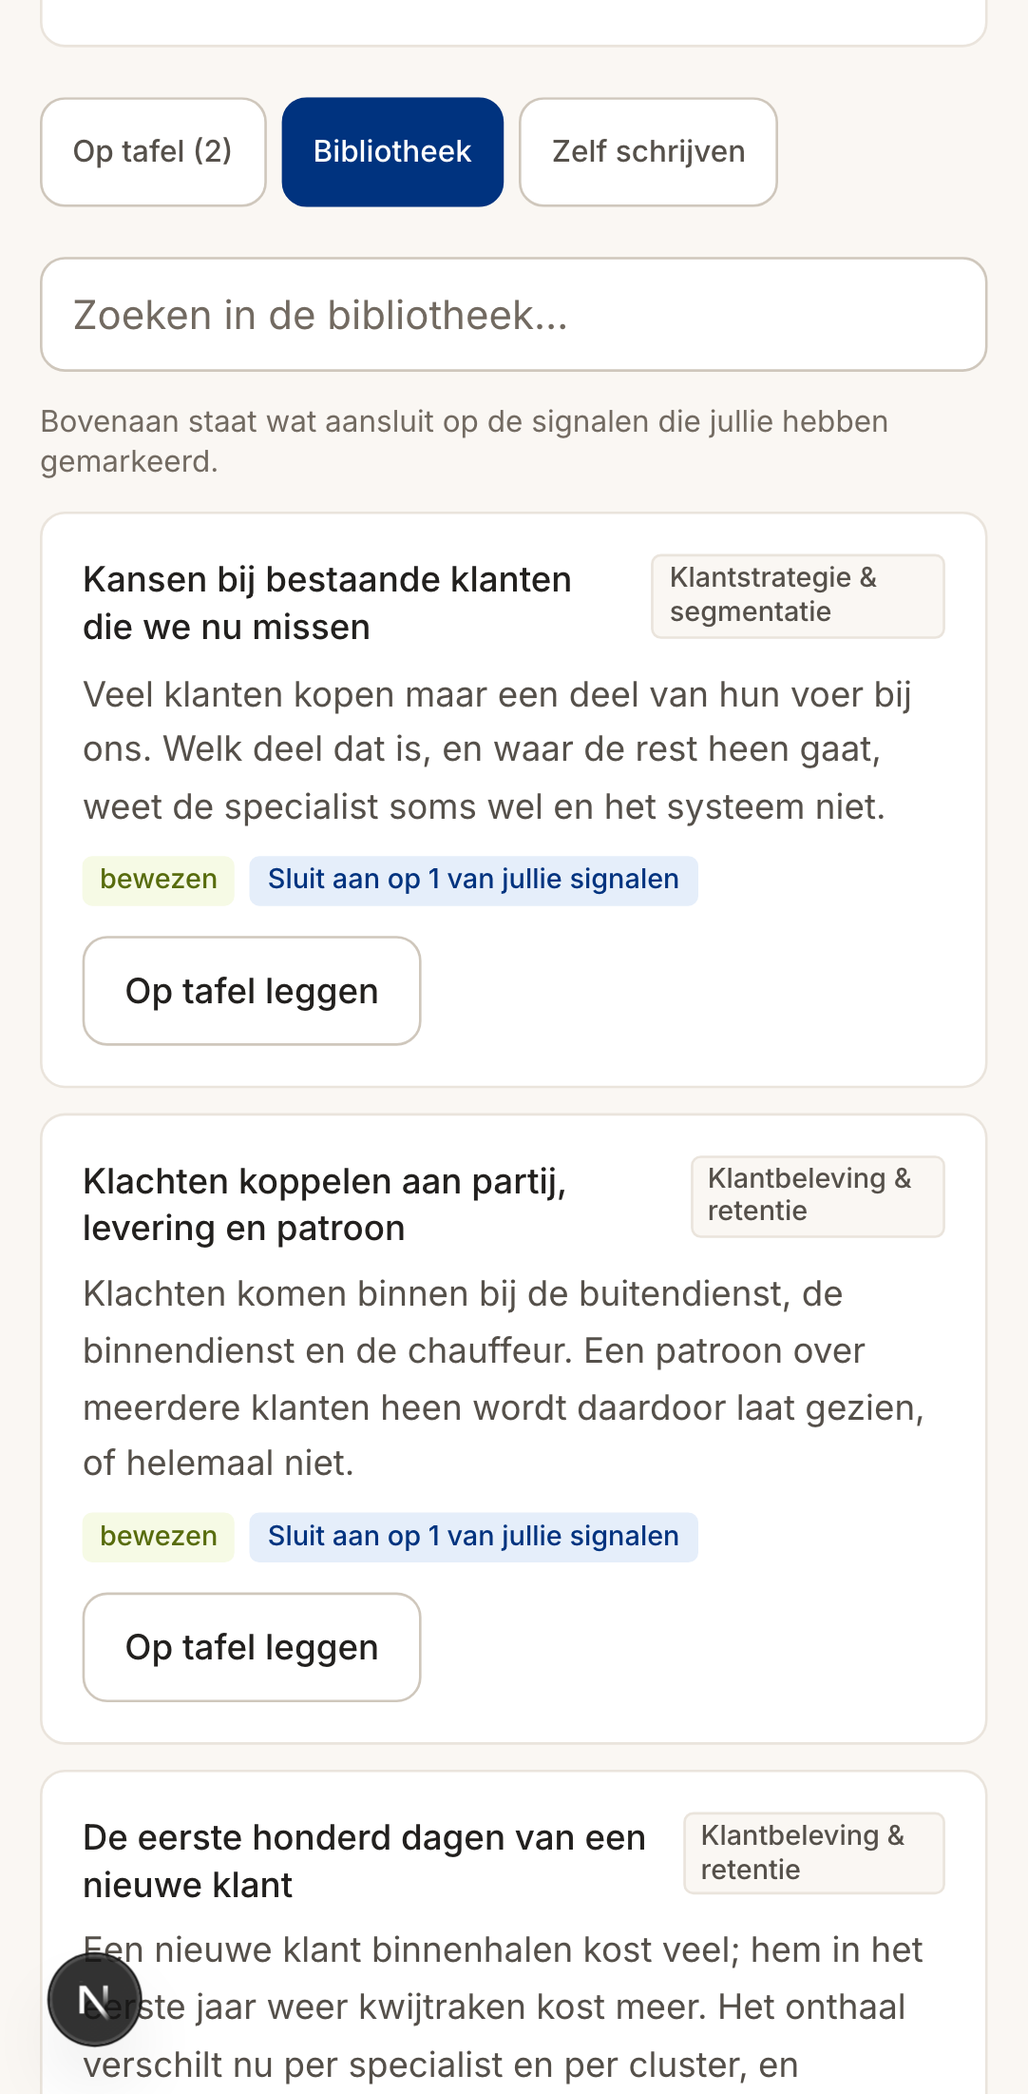
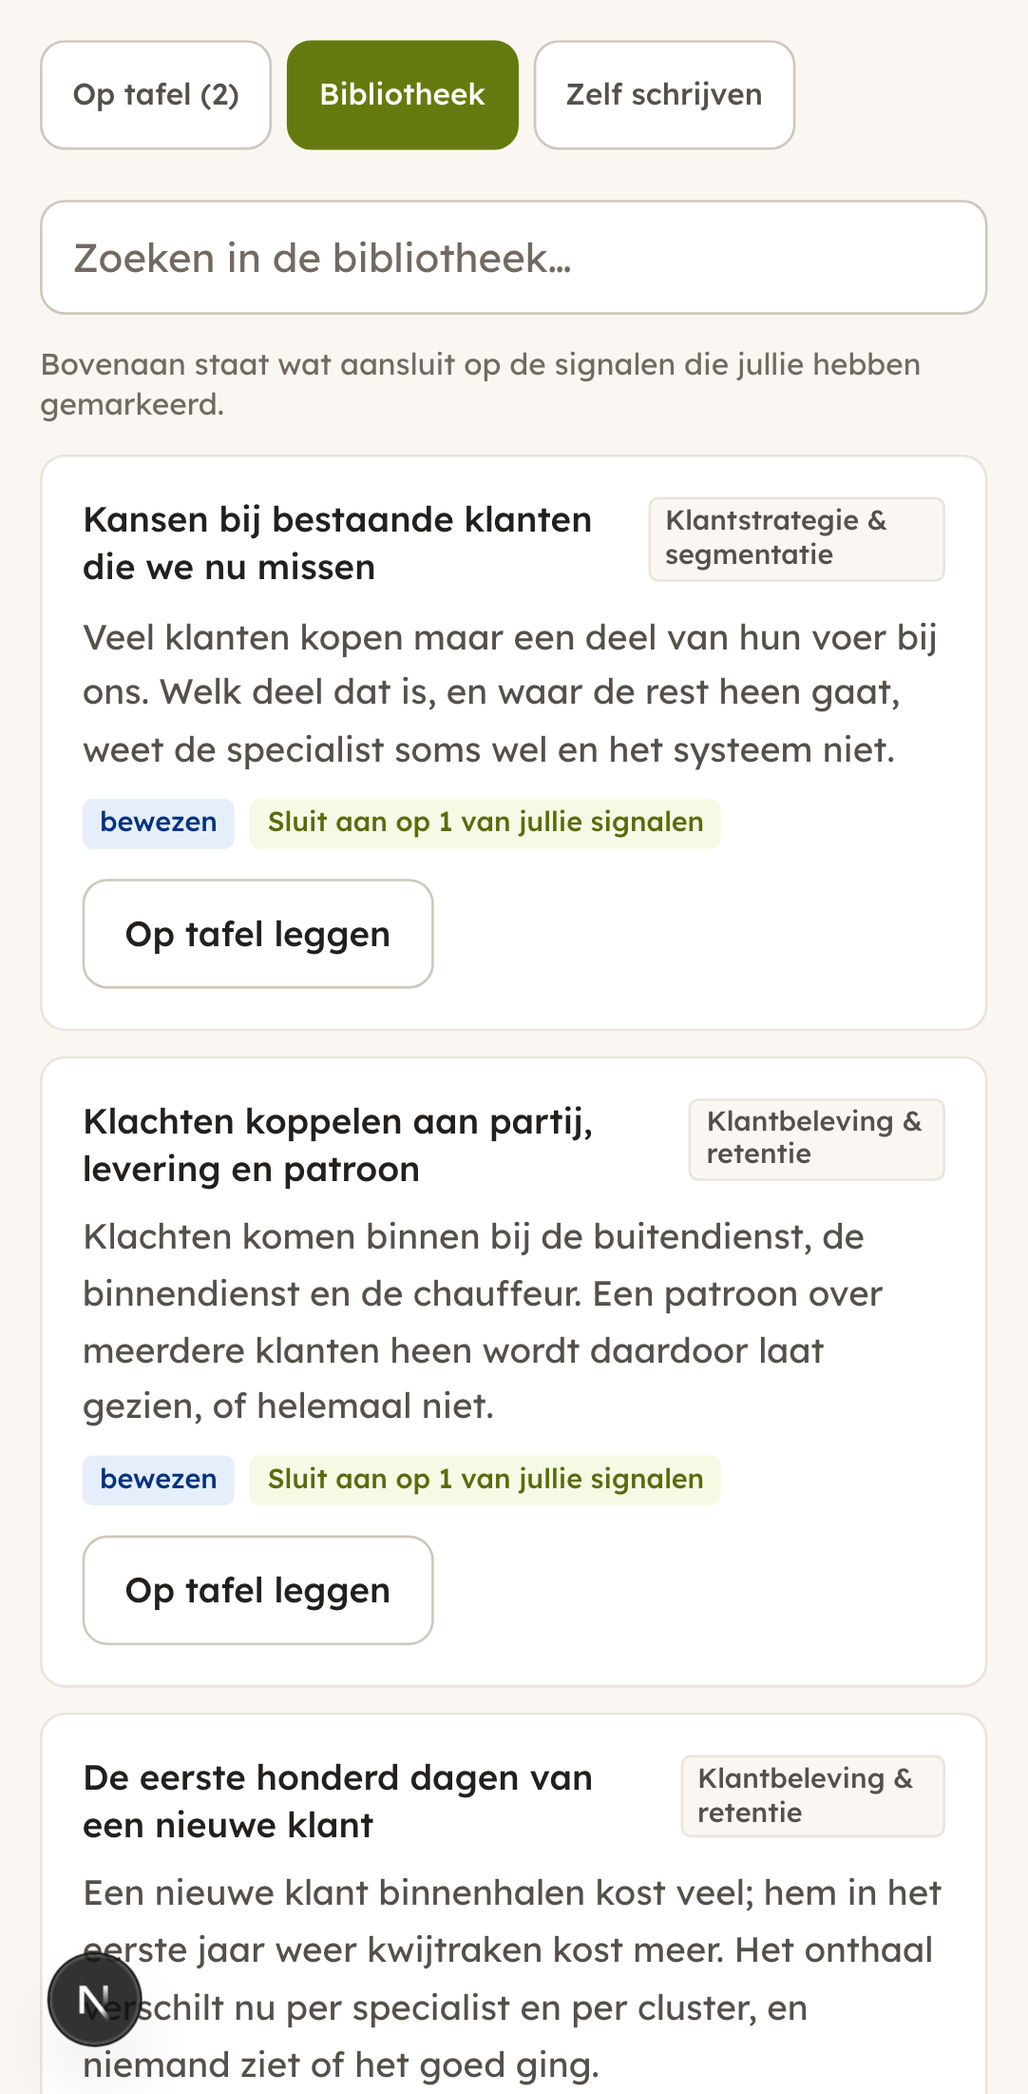
feat(huisstijl): Lexend door de hele app, en de logokleuren omgedraaid
Het lettertype en de kleuren komen nu allebei rechtstreeks van ForFarmers.

**Lexend** is wat zij zelf gebruiken, op hun site in de gewichten 300 tot 600.
Het staat op Google Fonts, dus het kan mee via next/font/google en wordt bij de
build opgehaald en vanaf het eigen domein geserveerd — geen bezoekersdata naar
Google, dezelfde afweging als eerder. Playfair Display en Inter zijn eruit: één
familie voor alles. Het onderscheid tussen kop en lopende tekst draagt nu het
gewicht (300 tegen 400) met strakkere letterafstand, wat bij een geometrische
schreefloze de rust geeft die de serif eerder bracht.

**De kleuren komen uit het officiële logo** (00-FF-Group_2024-RGB.svg), dat
precies twee kleuren bevat: `#99BA16` en `#00337F` — dezelfde twee als hun CSS.
Het groen is nu het hoofdaccent, het navy de tweede kleur.

Dat dwong twee dingen af.

Ten eerste nam de bestaande kleurtest het correct waar: `Cijfer toon="accent"`
zette het volle accent op papier, wat mocht omdat het kleinste formaat 30 px is
en daarboven de norm voor grote tekst (3,0) geldt. Bij koraal klopte dat op het
randje met 3,43; dit groen haalt 2,09 en de test viel om. Die redenering hing dus
aan één kleur. Er is nu een variant `accent-groot` die net zolang verdiept tot de
norm gehaald wordt en verder niets doet — bij een donkere huisstijl is hij gelijk
aan het accent zelf. Voor ForFarmers: `#7A9512`, contrast 3,20.

Ten tweede een semantische keuze: met groen als accent kan groen niet tegelijk
[…]

Changed region(s): [[0.0305, 0.0, 0.9455, 1.0], [0.9455, 0.1235, 0.976, 0.1544], [0.061, 0.4632, 0.0915, 0.4941]]

diff --git a/src/lib/thema/kleur.ts b/src/lib/thema/kleur.ts
@@ -26,9 +26,12 @@ export type Hsl = { h: number; s: number; l: number };
  * minimum nog steeds onprettig. Kleine tekst krijgt daarom de meeste marge.
  */
 const AA_NORMAAL = 4.5;
+/** De norm voor grote tekst (18pt en op). Grote cijfers vallen hieronder. */
+const AA_GROOT = 3.0;
 const DOEL_VULLING = 4.8;
 const DOEL_KLEINE_TEKST = 5.5;
 const DOEL_OP_DONKER = 5.0;
+const DOEL_GROTE_TEKST = 3.2;
 
 export function hexNaarRgb(hex: string): Rgb {
   const schoon = hex.trim().replace("#", "");
@@ -187,8 +190,18 @@ export type TweedePalet = {
 };
 
 export type Palet = {
-  /** De aangeleverde kleur. Alleen voor grote vormen: cijfers, cirkels, matrixpunten. */
+  /** De aangeleverde kleur. Alleen voor vlakken zonder tekst: cirkels, matrixpunten, balken. */
   accent: string;
+  /**
+   * Grote cijfers op de papieren ondergrond.
+   *
+   * Dit was eerder de rauwe accentkleur, met de redenering dat het kleinste cijferformaat 30 px is
+   * en daarboven de norm voor grote tekst (3,0) geldt. Bij koraal klopte dat op het randje (3,43);
+   * bij het limegroen van ForFarmers haalt de rauwe kleur maar 2,09 en zou het cijfer dus onder de
+   * norm zakken. Deze variant verdiept net zolang tot de norm gehaald wordt en blijft anders
+   * gelijk aan het accent zelf.
+   */
+  accentGroot: string;
   /** Vulling met witte tekst erop, bijvoorbeeld knoppen. */
   accentSterk: string;
   /** Kleine tekst in de accentkleur op de papieren ondergrond. */
@@ -210,13 +223,14 @@ export const WIT = "#FFFFFF";
  * Elke variant wordt getoetst tegen de ondergrond waarop hij daadwerkelijk komt te staan, niet
  * tegen een aanname. `kleur.test.ts` controleert dat voor elke organisatie in content/.
  */
-export { AA_NORMAAL };
+export { AA_NORMAAL, AA_GROOT };
 
 export function leidPaletAf(accent: string): Palet {
   const genormaliseerd = rgbNaarHex(hexNaarRgb(accent));
 
   return {
     accent: genormaliseerd,
+    accentGroot: zoekVariant(genormaliseerd, PAPIER, DOEL_GROTE_TEKST, "donkerder"),
     accentSterk: zoekVariant(genormaliseerd, WIT, DOEL_VULLING, "donkerder"),
     accentDiep: zoekVariant(genormaliseerd, PAPIER, DOEL_KLEINE_TEKST, "donkerder"),
     accentOpDonker: zoekVariant(genormaliseerd, HOUTSKOOL, DOEL_OP_DONKER, "lichter"),
@@ -244,6 +258,7 @@ export function leidTweedePaletAf(tweede: string): TweedePalet {
 export function paletAlsVariabelen(palet: Palet): Record<string, string> {
   return {
     "--color-accent": palet.accent,
+    "--color-accent-groot": palet.accentGroot,
     "--color-accent-sterk": palet.accentSterk,
     "--color-accent-diep": palet.accentDiep,
     "--color-accent-op-donker": palet.accentOpDonker,

diff --git a/src/lib/thema/__tests__/kleur.test.ts b/src/lib/thema/__tests__/kleur.test.ts
@@ -133,17 +133,31 @@ describe("de zachte tint draagt tekst", () => {
   );
 
   /**
-   * Eén uitzondering op die regel: het cijfer. `Cijfer toon="accent"` zet het volle accent op
-   * papier, en dat mag omdat het kleinste formaat 30 px is — daarboven geldt de norm voor grote
-   * tekst (3,0) en niet 4,5. Zakt dat formaat ooit, dan valt deze test niet om; dan moet
-   * `Cijfer` naar accent-diep. De test bewaakt dus alleen de kleurkant.
+   * Het cijfer. `Cijfer toon="accent"` zet een variant van het accent op papier, en die moet de
+   * norm voor grote tekst halen (3,0) omdat het kleinste formaat 30 px is. Zakt dat formaat ooit,
+   * dan valt deze test niet om; dan moet `Cijfer` naar accent-diep.
+   *
+   * Dit toetste eerder de rauwe accentkleur, met de redenering dat die het bij koraal net haalde
+   * (3,43). Dat hield geen stand: het limegroen van ForFarmers haalt 2,09, en toen deze test
+   * daarop omviel bleek dat het cijfer een eigen, bewaakte variant nodig had. Vandaar dat hier nu
+   * `accentGroot` staat en niet het accent zelf — de test toetst wat er werkelijk op het scherm
+   * komt.
    */
   it.each(organisaties.map((o) => [o.naam, o.thema.accent] as const))(
     "%s: het accentcijfer haalt de norm voor grote tekst op papier",
     (_naam, accent) => {
-      expect(contrast(accent, PAPIER)).toBeGreaterThanOrEqual(AA_GROOT);
+      expect(contrast(leidPaletAf(accent).accentGroot, PAPIER)).toBeGreaterThanOrEqual(AA_GROOT);
     },
   );
+
+  /**
+   * En de variant blijft zo dicht mogelijk bij de merkkleur: waar het accent de norm al haalt,
+   * verandert er niets. Anders zou een donkere huisstijl onnodig verder verdiept worden.
+   */
+  it("laat een accent dat de norm al haalt ongemoeid", () => {
+    const donker = "#00337F";
+    expect(leidPaletAf(donker).accentGroot).toBe(donker);
+  });
 
   it("het volle accent verdraagt juist géén tekst, en daarom bestaat de tint", () => {
     // Deze verwachting legt de ontwerpregel vast: geen kleine tekst op het volle koraal.

diff --git a/src/app/globals.css b/src/app/globals.css
@@ -36,6 +36,7 @@
    * de norm voor kleine tekst. Daarvoor zijn accent-diep en accent-sterk.
    */
   --color-accent: #e8524a;
+  --color-accent-groot: #d0342c;
   --color-accent-sterk: #dd261c;
   --color-accent-diep: #c32119;
   --color-accent-op-donker: #ec736d;
@@ -49,9 +50,14 @@
   --color-risico: #93332f;
   --color-risico-zacht: #fbeceb;
 
-  --font-sans: var(--font-inter), ui-sans-serif, system-ui, -apple-system, "Segoe UI", Roboto,
+  /*
+   * Eén familie: Lexend, het lettertype van ForFarmers zelf. Kop en lopende tekst verschillen in
+   * gewicht en letterafstand, niet in familie.
+   */
+  --font-sans: var(--font-lexend), ui-sans-serif, system-ui, -apple-system, "Segoe UI", Roboto,
     "Helvetica Neue", Arial, sans-serif;
-  --font-display: var(--font-playfair), Georgia, "Times New Roman", serif;
+  --font-display: var(--font-lexend), ui-sans-serif, system-ui, -apple-system, "Segoe UI", Roboto,
+    "Helvetica Neue", Arial, sans-serif;
   --font-mono: ui-monospace, "SF Mono", Menlo, Consolas, monospace;
 
   --radius-kaart: 0.625rem;
@@ -141,19 +147,22 @@ label.keuze:active {
 }
 
 /*
- * Display-tekst. Playfair heeft van zichzelf ruime letterafstand bij grote formaten; die wordt
- * hier ingehaald zodat koppen als één geheel lezen in plaats van als losse letters.
+ * Zonder een tweede familie moet het gewicht het onderscheid dragen: koppen staan lichter en
+ * strakker dan de lopende tekst, wat bij een geometrische schreefloze als Lexend de rust geeft
+ * die de display-serif eerder bracht.
  */
 .display {
   font-family: var(--font-display);
-  letter-spacing: -0.015em;
+  font-weight: 300;
+  letter-spacing: -0.025em;
 }
 
 .cijfer {
   font-family: var(--font-display);
+  font-weight: 300;
   font-variant-numeric: tabular-nums;
-  letter-spacing: -0.03em;
-  line-height: 0.85;
+  letter-spacing: -0.04em;
+  line-height: 0.9;
 }
 
 /* Tabellen en matrixen mogen zelf scrollen; de pagina nooit horizontaal. */

diff --git a/src/app/layout.tsx b/src/app/layout.tsx
@@ -1,23 +1,23 @@
 import type { Metadata, Viewport } from "next";
 import type { ReactNode } from "react";
-import { Inter, Playfair_Display } from "next/font/google";
+import { Lexend } from "next/font/google";
 import "./globals.css";
 
 /**
- * De lettertypen worden bij de build opgehaald en vanaf het eigen domein geserveerd. Er gaat dus
- * geen bezoekersdata naar Google — voor een organisatie die in deze game zelf over privacy bij
- * klantdata praat, is dat geen detail.
+ * Lexend, het lettertype dat ForFarmers zelf gebruikt — op hun site in de gewichten 300 tot 600.
+ *
+ * Het staat op Google Fonts, dus het kan mee via `next/font/google`: dat haalt het bij de build op
+ * en serveert het vanaf het eigen domein. Er gaat dus geen bezoekersdata naar Google — voor een
+ * organisatie die in deze game zelf over privacy bij klantdata praat, is dat geen detail.
+ *
+ * Eén familie voor alles, waar het ontwerp eerder een schreefloze en een display-serif naast
+ * elkaar zette. Het onderscheid tussen kop en lopende tekst komt nu uit gewicht en letterafstand
+ * in plaats van uit een tweede familie; zie `.display` en `.cijfer` in globals.css.
  */
-const inter = Inter({
+const lexend = Lexend({
   subsets: ["latin"],
-  variable: "--font-inter",
-  display: "swap",
-});
-
-const playfair = Playfair_Display({
-  subsets: ["latin"],
-  weight: ["400", "500", "600", "700"],
-  variable: "--font-playfair",
+  weight: ["300", "400", "500", "600", "700"],
+  variable: "--font-lexend",
   display: "swap",
 });
 
@@ -35,7 +35,7 @@ export const viewport: Viewport = {
 
 export default function RootLayout({ children }: { children: ReactNode }) {
   return (
-    <html lang="nl" className={`h-full ${inter.variable} ${playfair.variable}`}>
+    <html lang="nl" className={`h-full ${lexend.variable}`}>
       <body className="flex min-h-full flex-col">{children}</body>
     </html>
   );

diff --git a/src/components/basis.tsx b/src/components/basis.tsx
@@ -258,13 +258,12 @@ export function Cijfer({
   /** Eén korte regel onder het getal die uitlegt wat het meet — niet elk cijfer heeft dat nodig. */
   toelichting?: string;
 }) {
-  // Vol koraal haalt op papier 3,43. Dat is genoeg voor grote tekst (norm 3,0) en niet voor
-  // kleine, en daarom begint het kleinste formaat hieronder op 30px. Zolang dat zo blijft mag
-  // `accent` hier het volle koraal zijn; wordt er ooit een kleiner formaat bijgezet, dan moet
-  // dat `accent-diep` gebruiken.
+  // Grote cijfers gebruiken `accent-groot`, niet de rauwe accentkleur: die haalt bij een lichte
+  // huisstijl de norm voor grote tekst (3,0) niet. De afleiding verdiept alleen waar dat nodig is,
+  // dus bij een donkere huisstijlkleur zijn beide gelijk. Zie kleur.ts.
   const kleuren: Record<string, string> = {
     inkt: "text-inkt",
-    accent: "text-accent",
+    accent: "text-accent-groot",
     "op-donker": "text-accent-op-donker",
     gedempt: "text-houtskool-zacht",
   };

diff --git a/docs/ONTWERP.md b/docs/ONTWERP.md
@@ -2,32 +2,34 @@
 
 De game is een instrument dat een dagdeel op tafel ligt bij een bestuur of MT. Het moet er dus
 uitzien als iets waar je tijd aan wijdt, niet als een intern formulier. De vormtaal is redactioneel:
-warm papier, één accentkleur, een display-serif tegenover kleine schreefloze tekst, en spaarzaam een
-houtskoolpaneel op de plek waar de beslissing valt.
+warm papier, één accentkleur, koppen die door gewicht en letterafstand van de lopende tekst
+verschillen, en spaarzaam een houtskoolpaneel op de plek waar de beslissing valt.
 
 ## Eén kleur per organisatie, de rest afgeleid
 
 Een organisatieprofiel levert **één** hex in `content/organisaties/<naam>.json`:
 
 ```json
-"thema": { "accent": "#00337F", "bron": "…", "geverifieerd": true }
+"thema": { "accent": "#99BA16", "accent_secundair": "#00337F", "bron": "…", "geverifieerd": true }
 ```
 
-`src/lib/thema/kleur.ts` leidt daaruit vier varianten af, elk gemeten tegen de ondergrond waarop
+`src/lib/thema/kleur.ts` leidt daaruit vijf varianten af, elk gemeten tegen de ondergrond waarop
 hij daadwerkelijk komt te staan:
 
 | Variant | Waarvoor | Eis |
 |---|---|---|
-| `accent` | grote vormen: cijfers, cirkels, matrixpunten | geen (haalt bewust niet de norm voor kleine tekst) |
+| `accent` | vlakken zonder tekst: cirkels, matrixpunten, balken | geen |
+| `accent-groot` | grote cijfers op papier | ≥ 3,0 op papier (norm voor grote tekst) |
 | `accent-sterk` | knopvullingen met witte tekst | ≥ 4,5 met wit erop |
 | `accent-diep` | kleine tekst in de accentkleur op papier | ≥ 4,5 op papier |
 | `accent-op-donker` | tekst op een houtskoolpaneel | ≥ 4,5 op houtskool |
 
 De afleiding verschuift de lichtheid net zolang tot de **gemeten** verhouding de drempel haalt,
 in plaats van een vast percentage te verdonkeren. Dat verschil telt: een vast percentage werkt
-toevallig bij koraal, maar zou bij een geel of lichtgroen logo alsnog onleesbare knoptekst
-opleveren, en bij het diepe marineblauw van ForFarmers zou tekst op een houtskoolpaneel juist te
-donker blijven. Er wordt bovendien hoger gemikt dan het minimum, omdat precies op 4,5 landen broos is
+toevallig bij één vertrekpunt, maar zou bij een geel of lichtgroen logo alsnog onleesbare knoptekst
+opleveren, en bij een diep marineblauw zou tekst op een houtskoolpaneel juist te donker blijven.
+Het limegroen van ForFarmers is precies zo'n lastig vertrekpunt: als knopvulling wordt het
+`#657A0E`, als kleine tekst `#586C0D`, en op het houtskoolpaneel mag het onveranderd blijven. Er wordt bovendien hoger gemikt dan het minimum, omdat precies op 4,5 landen broos is
 en kleine tekst op het minimum nog steeds onprettig leest.
 
 `src/lib/thema/__tests__/kleur.test.ts` toetst dit voor elke organisatie in `content/` én voor een
@@ -40,18 +42,22 @@ wordt.
 - **Serif** is voor display: koppen, grote cijfers, de sessietitel. Nooit voor lopende tekst,
   labels of invoervelden.
 - **Het felle accent** is voor grote vormen. Kleine tekst in de accentkleur gebruikt `accent-diep`.
-- **De sessiecode staat bewust in een monospace**, niet in de display-serif. Die code wordt
-  overgetypt, en de hoge contrasten van een serif maken letters juist dubbelzinnig. Het
+- **De sessiecode staat bewust in een monospace**, niet in de displaystijl. Die code wordt
+  overgetypt, en een letter die op een cijfer lijkt kost dan een mislukte poging. Het
   code-alfabet zelf sluit al verwarrende tekens uit (geen I/1, geen O/0).
 - **Groen betekent waarde, niet accent.** Een negatieve netto baat wordt daarom in de risicokleur
   getoond; anders leest een verliesgevende use case als winst.
 
   Precies daarom mag een organisatie optioneel een **tweede** huisstijlkleur aanleveren
-  (`accent_secundair`): die doet niet mee als tweede accent, maar neemt de waardekleur over. Bij
-  ForFarmers is dat hun limegroen `#99BA16`, dat op crème 2,09 haalt en dus wordt verdiept tot
-  `#586C0D` op 5,51 — met behoud van tint, zodat het hún groen blijft. Een tweede kleur die wél
-  als accent mee zou doen, haalt de functie uit het eerste accent: dan is niets meer bijzonder.
-  Wie geen tweede kleur opgeeft, houdt het standaardgroen.
+  (`accent_secundair`): die doet niet mee als tweede accent, maar neemt de waardekleur over. Een
+  tweede kleur die wél als accent mee zou doen, haalt de functie uit het eerste accent: dan is
+  niets meer bijzonder. Wie geen tweede kleur opgeeft, houdt het standaardgroen.
+
+  Bij ForFarmers zijn dat de twee kleuren uit hun logo, en die dwingen een keuze af: met hun
+  limegroen als accent kan groen niet tegelijk "waarde" betekenen, want dan valt niets meer op.
+  Het navy `#00337F` neemt die rol daarom over. Het semantische paar blijft intact — navy voor een
+  positieve netto baat, de risicokleur voor een negatieve — alleen is de positieve kant niet langer
+  groen. Dat is de prijs van een groene huisstijl, en hij is bewust betaald.
 - **Eén houtskoolpaneel per scherm**, op de plek waar de beslissing valt: het uitkomstblok bij de
   waardebepaling, de investeringsruimte bij de prioritering, de grote getallen bij de opbrengst,
   en de matrix op de beamer. Geen invoervelden op donker.
@@ -68,27 +74,31 @@ Die stapeling brengt drie regels mee. Ze zijn geen smaak: ze komen alle drie uit
 tijdens het bouwen is gemeten of gezien, en ze staan hier omdat het er goed uitzag toen het fout
 was.
 
-### 1. Vol koraal verdraagt geen tekst
+### 1. Het volle accent verdraagt geen tekst
 
-Wit haalt op `#E8524A` 3,66, de donkerste inkt 4,44 — allebei onder de norm. De accentcirkel mag
-dus alleen in een zone waar geen tekst komt. Waar tekst overheen kan lopen is het de zachte tint,
-die inkt (13,5) en inkt-zacht (6,7) ruim draagt.
+Het limegroen `#99BA16` uit het ForFarmers-logo haalt op papier 2,09 en op wit nog minder. De
+accentcirkel mag dus alleen in een zone waar geen tekst komt. Waar tekst overheen kan lopen is het
+de zachte tint, die inkt en inkt-zacht ruim draagt.
 
-Twee uitzonderingen, allebei bewust:
+Alleen vlakken zonder tekst gebruiken het volle accent: matrixpunten, voortgangsbalken, de
+accentcirkel zelf.
 
-- **Het cijfer.** `Cijfer toon="accent"` zet vol koraal op papier (3,43). Dat mag omdat het
-  kleinste formaat 30 px is, en daarboven geldt de norm voor grote tekst (3,0). Zakt dat formaat
-  ooit, dan moet `Cijfer` naar `accent-diep`.
-- **Vlakken zonder tekst**: matrixpunten, voortgangsbalken, de accentcirkel zelf.
+**Ook het grote cijfer niet meer.** Dat was eerder de enige uitzondering: `Cijfer toon="accent"`
+zette het volle accent op papier, met de redenering dat het kleinste formaat 30 px is en daarboven
+de norm voor grote tekst (3,0) geldt. Bij het koraal van de eerste versie klopte dat op het randje
+(3,43). Bij dit groen zakt het naar 2,09, en toen de kleurtest daarop omviel bleek de redenering te
+broos: hij hing aan één kleur. Er is nu een aparte variant `accent-groot`, die net zolang verdiept
+tot de norm gehaald wordt en verder niets doet — bij een donkere huisstijl is hij gelijk aan het
+accent zelf. Voor ForFarmers levert dat `#7A9512` op, contrast 3,20.
 
-Dezelfde rekensom geldt andersom: `text-accent` als **tekstkleur** haalt op papier 3,43. Kleine
-tekst in de accentkleur is daarom `accent-diep` (5,54).
+Kleine tekst in de accentkleur is `accent-diep` (5,51).
 
-Deze regel is met het oog niet te controleren — vol koraal *ziet er gewoon goed uit* — en dat is te
-merken: hij zat onder drie geselecteerde filterchipjes en onder zes bijschriften en links van 12 en
-14 px. Beide kanten worden daarom getoetst in `src/lib/thema/__tests__/vormgevingsregels.test.ts`,
-dat de bronbestanden scant op `bg-accent` met een tekstkleur ernaast, en op `text-accent` zonder
-een groot lettergrootte-token in dezelfde klassenlijst.
+Deze regel is met het oog niet te controleren — een vol, helder accent *ziet er gewoon goed uit* —
+en dat is te merken: bij de eerste versie zat het onder drie geselecteerde filterchipjes en onder
+zes bijschriften van 12 en 14 px. Beide kanten worden daarom getoetst in
+`src/lib/thema/__tests__/vormgevingsregels.test.ts`, dat de bronbestanden scant op `bg-accent` met
+een tekstkleur ernaast, en op `text-accent` zonder een groot lettergrootte-token in dezelfde
+klassenlijst.
 
 ### 2. Op de zachte tint is `inkt-licht` niet genoeg
 
@@ -115,9 +125,20 @@ blijft de cirkel onder de haarlijnkop of onder de teamscore, in plaats van erond
 
 ## Lettertypen
 
-Playfair Display voor display, Inter voor de rest, allebei via `next/font/google`. Die haalt ze bij
-de build binnen en serveert ze vanaf het eigen domein — er gaat dus geen bezoekersdata naar Google.
-Voor een organisatie die in deze game zelf over privacy bij klantdata praat, is dat geen detail.
+**Lexend**, het lettertype dat ForFarmers zelf gebruikt — op hun site in de gewichten 300 tot 600.
+Via `next/font/google`, dat het bij de build binnenhaalt en vanaf het eigen domein serveert; er
+gaat dus geen bezoekersdata naar Google. Voor een organisatie die in deze game zelf over privacy
+bij klantdata praat, is dat geen detail.
+
+Eén familie voor alles, waar hier eerder een display-serif tegenover een schreefloze stond. Dat
+onderscheid draagt nu het gewicht: `.display` en `.cijfer` staan op 300 met strakkere
+letterafstand, de lopende tekst op 400. Bij een geometrische schreefloze als Lexend geeft een licht
+gewicht op groot formaat de rust die de serif eerder bracht — een kop in hetzelfde gewicht als de
+tekst eronder zou juist druk worden.
+
+De regelhoogte van `.cijfer` staat op 0,9 en niet lager. Bij 0,85 was de regelbox korter dan de
+cijfers zelf, en liep een toelichting eronder dwars door het getal heen; de onderruimte in `em`
+vangt de rest op.
 
 ## Iconen
 
